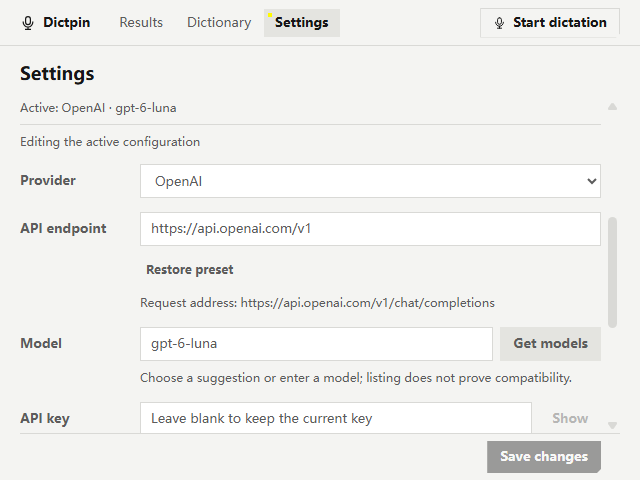
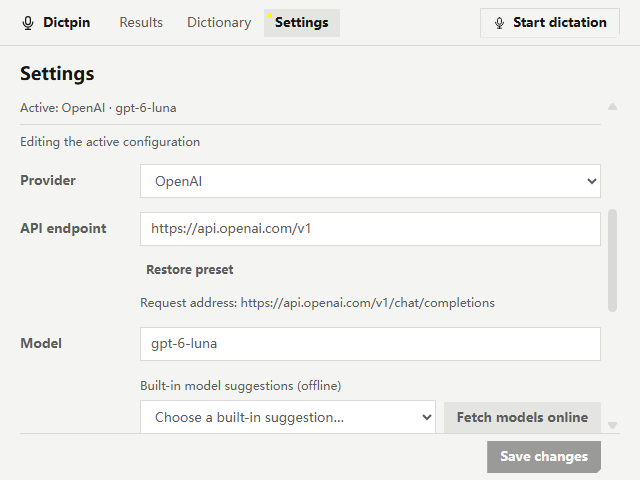
fix: clarify offline suggestions and model fetching feedback

diff --git a/app/renderer/provider-form.js b/app/renderer/provider-form.js
@@ -2,7 +2,7 @@
  'use strict';
  function create({bridge,onChange,onBusy}){
   const $=id=>document.getElementById(id),P=root.ProviderPresets,D=new root.ProviderDrafts.Drafts(P),en=bridge.uiLanguage==='en',t=(zh,english)=>en?english:zh;
-  let ready=false,operation=null,operationProfile=null,operationRevision=null,sequence=0,locked=false,secure=false;
+  let ready=false,operation=null,operationKind=null,operationProfile=null,operationRevision=null,sequence=0,locked=false,secure=false;
   const label=p=>P.providerLabel(p,en?'en':'zh-CN');
   function cancel(){if(operation){const id=operation,d=D.items.get(operationProfile);if(d?.draftRevision===operationRevision&&['running','loading'].includes(d.status.category))d.status={category:'changed'};operation=null;renderStatus();void bridge.cancelProviderDiagnostic({requestId:id}).catch(()=>{});onBusy(false);}}
   function changed(){cancel();renderStatus();renderInfo();onChange();}
@@ -11,7 +11,11 @@
   options($('model-region'),[['',t('请选择区域','Choose a region')],...P.REGIONS.map(p=>[p.id,en?p.en:p.label])]);
   function renderStatus(){
    const s=D.status(),messages={untested:t('未测试','Not tested'),changed:t('配置已更改，请重新测试','Changed — test again'),running:t('正在测试轻整理…','Testing cleanup…'),loading:t('正在获取模型…','Getting models…')};
-   $('test-message').textContent=messages[s.category]||s.displayMessage||'';
+   const missingKey=s.kind==='models'&&s.category==='credentials_missing';
+   $('model-key-error').hidden=!missingKey;$('model-key-error').textContent=missingKey?t('请先填写密钥','Please enter an API key first.'):'';
+   if(missingKey)$('model-key').setAttribute('aria-invalid','true');else $('model-key').removeAttribute('aria-invalid');
+   $('model-fetch-feedback').textContent=s.kind==='models'?(missingKey?t('尚未发送请求。','No request sent.'):(messages[s.category]||s.displayMessage||'')):'';
+   $('test-message').textContent=s.kind==='models'?'':messages[s.category]||s.displayMessage||'';
    $('test-message').dataset.outcome=s.outcome||s.category;
    const details=$('test-details');details.hidden=!s.requestId;
    $('test-detail-text').textContent=s.requestId?[t('模型：','Model: ')+(s.model||'—'),t('地址：','Address: ')+(s.endpointUrl||'—'),'HTTP: '+(s.httpStatus??'—'),t('类别：','Category: ')+s.category,t('耗时：','Elapsed: ')+Math.round(s.elapsedMs||0)+' ms',t('时间：','Time: ')+(s.testedAt?new Date(s.testedAt).toLocaleString(en?'en-GB':'zh-CN'):'—')].join('\n'):'';
@@ -33,6 +37,10 @@
    $('secure-key-note').textContent=secure?'':t('系统安全存储不可用；新密钥只能用于本次会话。','Secure storage is unavailable; new keys can only be session-only.');
    try{$('final-model-url').textContent=t('最终请求地址：','Request address: ')+root.ProviderEndpoint.resolveProviderEndpoint(p.baseUrl,'refiner',undefined,p.endpointMode).endpointUrl;}catch{$('final-model-url').textContent=t('填完整地址后显示最终请求地址。','Enter a complete address to preview the request URL.');}
    const help=P.KEY_URLS[p.presetId];$('provider-key-help').hidden=!help;$('provider-key-help').href=help||'#';
+   let endpoint;try{endpoint=root.ProviderEndpoint.resolveProviderEndpoint(p.baseUrl,'refiner',undefined,p.endpointMode);}catch{}
+   const access=root.ProviderDrafts.modelFetchAccess(d,endpoint);
+   $('model-source-hint').textContent=endpoint?.local?t('内置建议无需联网；在线获取将访问本地模型服务。','Built-in suggestions work without a connection; online fetch queries your local model service.'):access.reason==='credentials_missing'?t('内置建议无需密钥；在线获取请先填写密钥。','Built-in suggestions work without a key; enter a key before fetching online.'):t('可使用内置建议或手动填写；在线获取会查询当前厂商的模型列表。','Use built-in suggestions or type a model; online fetch queries this provider’s model list.');
+   $('fetch-models').textContent=operation&&operationKind==='models'?t('正在获取…','Fetching…'):t('在线获取模型','Fetch models online');$('fetch-models').setAttribute('aria-busy',String(!!operation&&operationKind==='models'));
    $('provider-key-help').textContent=t('获取 API 密钥','Get an API key');
    $('provider-summary').textContent=label(active)+' · '+(active.model||t('未配置','Not configured'));
   }
@@ -41,6 +49,7 @@
    if(p.presetId==='legacy'&&!$('model-provider').querySelector('option[value=legacy]')){const o=document.createElement('option');o.value='legacy';o.textContent=t('原有配置','Previous configuration');$('model-provider').append(o);}
    $('model-provider').value=p.presetId;$('model-region').value=p.region||'';$('model-workspace').value=p.workspaceId||'';$('model-url').value=p.baseUrl||'';$('model-name').value=p.model||'';$('model-key').value=d.key;$('model-key').type='password';$('reveal-model-key').textContent=t('查看','Show');$('remember-key').checked=d.persistKey;
    const list=$('model-suggestions');list.replaceChildren(...P.suggestions(p).map(id=>{const o=document.createElement('option');o.value=id;return o;}));renderInfo();renderStatus();
+   const builtins=P.suggestions(p);options($('builtin-models'),[['',builtins.length?t('选择内置建议…','Choose a built-in suggestion…'):t('暂无内置建议，可手动填写','No built-in suggestions; type a model')],...builtins.map(id=>[id,id])]);$('builtin-models').value='';$('builtin-models').disabled=locked||!builtins.length;
   }
   function accept(view){if(!view)return;const before=D.selected;D.accept(view);ready=true;if(!before||!D.isDirty())render();else renderInfo();}
   function select(){const provider=$('model-provider').value;let region=provider==='qwen'?$('model-region').value:'';if(provider==='qwen'&&!region){const saved=D.view.profiles.find(x=>x.presetId==='qwen');region=saved?.region||'';}if(provider==='legacy')D.selected='legacy';else D.select(provider,region);cancel();render();onChange();}
@@ -49,6 +58,7 @@
   $('model-workspace').addEventListener('input',()=>{const p=D.current().profile,workspaceId=$('model-workspace').value.trim();let defaults;try{defaults=P.createProfile('qwen',p.region,workspaceId);}catch{defaults={baseUrl:'',endpointMode:'base'};}D.update({workspaceId,...(!p.customized?{baseUrl:defaults.baseUrl,endpointMode:defaults.endpointMode}:{})});$('model-url').value=D.current().profile.baseUrl;changed();});
   $('model-url').addEventListener('input',()=>{const baseUrl=$('model-url').value.trim();D.update({baseUrl,endpointMode:/\/chat\/completions\/?$/.test(baseUrl)?'endpoint':'base',customized:true});changed();});
   $('model-name').addEventListener('input',()=>{D.update({model:$('model-name').value.trim()});changed();});
+  $('builtin-models').addEventListener('change',()=>{const value=$('builtin-models').value;if(!value)return;$('model-name').value=value;D.update({model:value});changed();});
   $('model-key').addEventListener('input',()=>{D.setKey($('model-key').value.trim());changed();});
   $('remember-key').addEventListener('change',()=>{D.setPersist($('remember-key').checked);changed();});
   $('remove-model-key').addEventListener('click',()=>{D.removeKey();changed();render();});
@@ -56,7 +66,7 @@
   $('restore-provider-preset').addEventListener('click',()=>{const d=D.current(),p=d.profile;if(p.presetId==='legacy')return;let defaults;try{defaults=P.createProfile(p.presetId,p.region,p.workspaceId);}catch{$('model-workspace').setAttribute('aria-invalid','true');$('model-workspace').focus();D.result(d.draftRevision,{category:'error',displayMessage:t('业务空间 ID 格式无效，请修改后重试。','Invalid workspace ID. Correct it and try again.')});renderStatus();return;}D.update({baseUrl:defaults.baseUrl,endpointMode:defaults.endpointMode,model:defaults.model,customized:false});changed();render();});
   function resultMessage(result,kind){
    const success=result.outcome==='success'||['success','test_success','chat_success','cleanup_success','models_success'].includes(result.category);
-   if(kind==='models'&&Array.isArray(result.models))return t('已获取 '+result.models.length+' 个模型；列表不代表轻整理兼容。','Received '+result.models.length+' models; listing is not proof of cleanup compatibility.')+(result.partial?t(' 已达到读取上限。',' The read limit was reached.'):'');
+   if(kind==='models'&&Array.isArray(result.models))return t('已获取 '+result.models.length+' 个模型，可在模型输入框选择；列表不代表轻整理兼容。','Received '+result.models.length+' models; choose one in the model input. Listing is not proof of cleanup compatibility.')+(result.partial?t(' 已达到读取上限。',' The read limit was reached.'):'');
    if(success)return t('本次轻整理样例通过；不代表所有内容的效果。','This cleanup sample passed; quality for other text is not established.');
    const messages={authentication:t('认证失败，请核对当前服务的密钥和权限。','Authentication failed. Check this service’s key and permissions.'),credentials_missing:t('请填写当前服务的密钥，或使用本地匿名服务。','Enter this service’s key, or use an anonymous local service.'),unsupported:t('当前地址暂未支持获取模型，可手动填写。','This address has no verified model-list adapter. Enter a model manually.'),cancelled:t('已取消；服务端仍可能处理或计费。','Cancelled; server processing or billing may still occur.'),timeout:t('请求超时，未自动重试；文字仍保留。','Timed out without retry; your text is preserved.'),rate_limit:t('额度或频率受限，请检查服务账户。','Quota or rate limit reached. Check your provider account.'),model_or_endpoint:t('模型或接口不存在，请核对模型与最终地址。','Model or endpoint not found. Check the model and request URL.')};
    if(result.category==='not_supported')return messages.unsupported;
@@ -64,15 +74,17 @@
    return messages[result.category]||t('检查未通过，请展开详情；配置草稿仍保留。','The check did not pass. Expand details; your draft is preserved.');
   }
   async function run(kind){
-   if(!ready||operation)return;const d=D.current(),id=d.profileId,revision=d.draftRevision,requestId='api-'+Date.now()+'-'+(++sequence);operation=requestId;operationProfile=id;operationRevision=revision;onBusy(true);D.result(revision,{category:kind==='models'?'loading':'running'},id);renderStatus();
+   if(!ready||operation)return;const d=D.current(),id=d.profileId,revision=d.draftRevision;
+   if(kind==='models'){let endpoint;try{endpoint=root.ProviderEndpoint.resolveProviderEndpoint(d.profile.baseUrl,'refiner',undefined,d.profile.endpointMode);}catch{}const access=root.ProviderDrafts.modelFetchAccess(d,endpoint);if(!access.allowed){D.result(revision,{kind,category:access.reason,displayMessage:access.reason==='credentials_missing'?t('请先填写密钥','Please enter an API key first.'):t('请先填写有效的 API 地址。','Enter a valid API address first.')},id);renderStatus();const field=$(access.reason==='credentials_missing'?'model-key':'model-url');field.focus();field.scrollIntoView({block:'nearest',behavior:'auto'});return;}}
+   const requestId='api-'+Date.now()+'-'+(++sequence);operation=requestId;operationKind=kind;operationProfile=id;operationRevision=revision;onBusy(true);D.result(revision,{kind,category:kind==='models'?'loading':'running'},id);renderStatus();renderInfo();
    try{const input={...D.input(),requestId};const result=await(kind==='models'?bridge.listProviderModels(input):bridge.checkTextService(input));if(operation!==requestId)return;if(D.result(revision,{...result,displayMessage:resultMessage(result,kind)},id)&&kind==='models'&&Array.isArray(result.models)){const ids=result.models.map(m=>typeof m==='string'?m:m.id).filter(Boolean);$('model-suggestions').replaceChildren(...[...new Set([...P.suggestions(d.profile),...ids])].map(value=>{const o=document.createElement('option');o.value=value;return o;}));}}
-   catch{if(operation===requestId)D.result(revision,{category:'error',displayMessage:t('检查未完成；请核对地址、模型和密钥，草稿仍保留。','Check incomplete. Verify the address, model and key; the draft is preserved.')},id);}
+   catch{if(operation===requestId)D.result(revision,{kind,category:'error',displayMessage:t('检查未完成；请核对地址、模型和密钥，草稿仍保留。','Check incomplete. Verify the address, model and key; the draft is preserved.')},id);}
    finally{if(operation===requestId){operation=null;onBusy(false);renderStatus();renderInfo();}}
   }
   $('test-model').addEventListener('click',()=>void run('test'));$('fetch-models').addEventListener('click',()=>void run('models'));
   $('provider-key-help').addEventListener('click',event=>{event.preventDefault();void bridge.openProviderHelp(D.current().profile.presetId).catch(()=>{});});
-  $('cancel-test').addEventListener('click',()=>{const d=D.current();cancel();D.result(d.draftRevision,{category:'cancelled',displayMessage:t('已取消；服务端仍可能计费。','Cancelled; server billing may still occur.')});renderStatus();});
-  return {accept,saved(view){cancel();D.saved(view);render();},reset(){cancel();D.reset();render();},isDirty:()=>ready&&D.isDirty(),patch:()=>ready?D.patch():null,cancel,sync(state){locked=state.locked;secure=state.secure;const unavailable=locked||state.busy||!!operation||!ready;$('test-model').disabled=unavailable;$('fetch-models').disabled=unavailable;$('cancel-test').hidden=!operation;renderInfo();},status:()=>D.status()};
+  $('cancel-test').addEventListener('click',()=>{const d=D.current(),kind=operationKind;cancel();D.result(d.draftRevision,{kind,category:'cancelled',displayMessage:t('已取消；服务端仍可能计费。','Cancelled; server billing may still occur.')});renderStatus();});
+  return {accept,saved(view){cancel();D.saved(view);render();},reset(){cancel();D.reset();render();},isDirty:()=>ready&&D.isDirty(),patch:()=>ready?D.patch():null,cancel,sync(state){locked=state.locked;secure=state.secure;const unavailable=locked||state.busy||!!operation||!ready;$('test-model').disabled=unavailable;$('fetch-models').disabled=unavailable;$('builtin-models').disabled=locked||!ready||!P.suggestions(D.current()?.profile).length;$('cancel-test').hidden=!operation;renderInfo();},status:()=>D.status()};
  }
  root.ProviderForm={create};
 })(typeof globalThis==='object'?globalThis:this);

diff --git a/app/renderer/dictation.html b/app/renderer/dictation.html
@@ -49,8 +49,8 @@
           <div id="provider-workspace-field" class="field" hidden><label for="model-workspace">业务空间 ID</label><input id="model-workspace" type="text" autocomplete="off" spellcheck="false" maxlength="128"></div>
           <div class="field"><label for="model-url">API 地址</label><div><input id="model-url" type="url" autocomplete="off" spellcheck="false" placeholder="https://example.com/v1" aria-describedby="model-url-error"><p id="model-url-error" class="field-error" hidden></p></div></div>
           <div class="provider-address-info"><span id="provider-customized" class="hint" hidden>已自定义</span><button id="restore-provider-preset" type="button" class="text-button">恢复预设</button><p id="final-model-url" class="hint"></p></div>
-          <div class="field"><label for="model-name">模型</label><div><div class="inline"><input id="model-name" type="text" list="model-suggestions" autocomplete="off" spellcheck="false" maxlength="160"><button id="fetch-models" class="secondary" type="button">获取模型</button></div><datalist id="model-suggestions"></datalist><p class="hint">可选择建议或手动填写；列表不代表兼容。</p></div></div>
-          <div class="field"><label for="model-key">API 密钥</label><div><div class="inline"><input id="model-key" type="password" autocomplete="new-password" spellcheck="false" placeholder="留空保留当前密钥"><button id="reveal-model-key" type="button" class="text-button" aria-controls="model-key">查看</button></div><div class="provider-key-actions"><button id="remove-model-key" type="button" class="text-button">移除密钥</button><a id="provider-key-help" href="#" hidden>获取 API 密钥</a></div><label class="check-row"><input id="remember-key" type="checkbox">用系统安全存储保存</label><p id="key-message" class="hint"></p><p id="secure-key-note" class="hint"></p></div></div>
+          <div class="field"><label for="model-name">模型</label><div><input id="model-name" type="text" list="model-suggestions" autocomplete="off" spellcheck="false" maxlength="160" aria-describedby="model-source-hint"><datalist id="model-suggestions"></datalist><div class="model-choice-row"><div><label for="builtin-models" class="hint">内置模型建议（无需联网）</label><select id="builtin-models"></select></div><button id="fetch-models" class="secondary" type="button" aria-describedby="model-source-hint model-fetch-feedback">在线获取模型</button></div><p id="model-source-hint" class="hint"></p><p id="model-fetch-feedback" class="hint" role="status" aria-live="polite"></p></div></div>
+          <div class="field"><label for="model-key">API 密钥</label><div><div class="inline"><input id="model-key" type="password" autocomplete="new-password" spellcheck="false" placeholder="留空保留当前密钥" aria-describedby="key-message model-key-error"><button id="reveal-model-key" type="button" class="text-button" aria-controls="model-key">查看</button></div><p id="model-key-error" class="field-error" role="alert" hidden></p><div class="provider-key-actions"><button id="remove-model-key" type="button" class="text-button">移除密钥</button><a id="provider-key-help" href="#" hidden>获取 API 密钥</a></div><label class="check-row"><input id="remember-key" type="checkbox">用系统安全存储保存</label><p id="key-message" class="hint"></p><p id="secure-key-note" class="hint"></p></div></div>
           <div class="test-row"><button id="test-model" class="secondary" type="button">测试轻整理</button><button id="cancel-test" type="button" class="text-button" hidden>取消检查</button><span class="hint">发送虚构样例，可能计费。</span></div><p id="test-message" role="status" class="hint"></p>
           <details id="test-details" hidden><summary>检查详情</summary><p id="test-detail-text" class="hint"></p></details>
         </div></details>

diff --git a/app/renderer/dictation.css b/app/renderer/dictation.css
@@ -80,5 +80,6 @@ textarea{font:15px/1.8 var(--ef-font-text);color:var(--ef-ink);border:1px solid 
 .result-actions{flex-wrap:wrap;justify-content:flex-end}.delivery-message{padding:6px 0;margin:0 0 8px;line-height:1.6;border-bottom:1px solid var(--ef-rule)}
 .task-status[data-segmented=true]{flex-wrap:wrap}.task-status[data-segmented=true]>p{display:block;margin:0;font-size:12px}
 .provider-address-info{margin:-6px 0 14px 120px}.provider-address-info button{font-size:12px;padding:2px 6px}.provider-address-info p{overflow-wrap:anywhere;margin-top:4px}.provider-key-actions{display:flex;align-items:center;justify-content:space-between;gap:8px;margin-top:4px}.provider-key-actions button,.provider-key-actions a{font-size:12px}.provider-key-actions button{padding:3px 0}#provider-active{font-size:12px;border-bottom:1px solid var(--ef-rule);padding-bottom:6px}#provider-pending{margin-bottom:12px}#test-details{margin:8px 0 0 120px}#test-detail-text{white-space:pre-wrap;overflow-wrap:anywhere}#test-message[data-outcome=changed]{color:var(--ef-ink-2)}
+.model-choice-row{display:flex;flex-wrap:wrap;align-items:flex-end;gap:8px;margin-top:8px}.model-choice-row>div{flex:1 1 180px;min-width:0}.model-choice-row label{display:block;margin:0 0 4px}.model-choice-row button{flex:none;max-width:100%}#model-fetch-feedback:empty{display:none}#model-fetch-feedback{margin-top:6px}#model-key[aria-invalid=true]{border-color:var(--ef-danger)}
 @media(max-width:420px){.provider-address-info,#test-details{margin-left:0}.provider-key-actions{flex-wrap:wrap}#fetch-models{padding-inline:7px;font-size:11px}}
 @media(max-width:390px){.result-actions{gap:5px}.result-actions button{font-size:11px;padding-inline:8px;min-width:58px}}

diff --git a/app/renderer/dictation-i18n.js b/app/renderer/dictation-i18n.js
@@ -8,6 +8,7 @@
  const protectedAttributes='#original-text,#correction-list,#provider-summary,.word-title,.word-aliases,[data-user-text]';
  const chrome='title,button,label,summary,h1,h2,h3,.app-name,.skip,.hint,.empty-copy,.dictionary-intro,.dictionary-help,.privacy-note,.count-unit,#notice,#session-status,#task-status-title,#task-status-detail,#result-message,#recent-time,#shortcut-prefix,#shortcut-suffix,#toast-text,#word-undo-text,#word-error,#confirm-description,#bar-status,#bar-feedback,#voice-pill';
  const english=Object.freeze({
+  '内置模型建议（无需联网）':'Built-in model suggestions (offline)','在线获取模型':'Fetch models online',
   '模型厂商':'Provider','服务区域':'Region','业务空间 ID':'Workspace ID','恢复预设':'Restore preset','已自定义':'Customized','获取模型':'Get models','可选择建议或手动填写；列表不代表兼容。':'Choose a suggestion or enter a model; listing does not prove compatibility.','查看':'Show','隐藏':'Hide','移除密钥':'Remove key','撤销移除':'Undo removal','获取 API 密钥':'Get an API key','测试轻整理':'Test cleanup','取消检查':'Cancel check','发送虚构样例，可能计费。':'Sends a fictional sample; charges may apply.','检查详情':'Check details',
   '本次使用本地文字，模型连接待配置。':'Using local text for this task; configure the model connection when ready.',
   '已取消；已完成文字保留，未处理片段仅在内存保留30秒。':'Cancelled. Completed text is kept; unfinished audio stays in memory for 30 seconds.',

diff --git a/app/renderer/provider-drafts.js b/app/renderer/provider-drafts.js
@@ -3,6 +3,7 @@
  const clone=value=>JSON.parse(JSON.stringify(value));
  const fields=['id','presetId','region','workspaceId','baseUrl','endpointMode','model','customized','revision'];
  const metadata=p=>Object.fromEntries(fields.filter(k=>p[k]!==undefined).map(k=>[k,p[k]]));
+ function modelFetchAccess(draft,endpoint){if(!endpoint||typeof endpoint.local!=='boolean')return {allowed:false,reason:'configuration'};const hasKey=draft?.keyAction==='replace'?typeof draft.key==='string'&&!!draft.key.trim():draft?.keyAction==='retain'&&draft.keyStatus?.hasKey===true;return endpoint.local||hasKey?{allowed:true,reason:null}:{allowed:false,reason:'credentials_missing'};}
  class Drafts{
   constructor(presets){this.presets=presets;this.view=null;this.items=new Map();this.selected=null;this.conflicted=false;}
   accept(view){if(!view)return;this.latest=clone(view);if(!this.view){this.saved(view);return;}if(view.revision!==this.view.revision){if(this.isDirty()){this.conflicted=true;return;}this.saved(view);}}
@@ -22,5 +23,5 @@
   status(){return this.current()?.status||{category:'untested'};}
   result(revision,result,id=this.selected){const d=this.items.get(id);if(id!==this.selected||!d||d.draftRevision!==revision)return false;d.status=clone(result);return true;}
  }
- return {Drafts};
+ return {Drafts,modelFetchAccess};
 });

diff --git a/CHANGELOG.md b/CHANGELOG.md
@@ -11,11 +11,12 @@ This is an application-source development candidate. No installer release, tag o
 - Added provider presets for Qwen, DeepSeek, OpenAI and SiliconFlow, plus Local/Custom, with separate remembered provider/region configurations and one active service. Explicit Save commits changed drafts and activation atomically; switching presets sends no request.
 - Added draft-bound cleanup sample tests using the same request/response rules and 12-second deadline as actual cleanup. Configuration edits invalidate old test results and superseded replies cannot update the new draft.
 - Added deliberate model discovery with provider-specific, same-origin adapters, a 10-second deadline, 500-model/2 MiB caps, and suggestions/manual input retained on failure. A list or one sample does not establish general quality.
+- Separated offline built-in model suggestions from **Fetch models online**. Missing remote credentials now show **请先填写密钥**, focus the key field and send no request. Online fetching has an explicit busy label and nearby result/cancellation feedback; anonymous local services remain supported.
 - Added explicit key removal/undo and session/saved/unavailable states. Keys remain in the main process, scoped to their profile/endpoint; requested encryption or save failure preserves previous data. Legacy configurations remain unchanged on open; unsupported newer data opens read-only.
 - Optional cleanup with unavailable configuration/credentials no longer prevents local dictation. No automatic paid retry, provider switch, physical microphone test or deployed running-version replacement is introduced.
 - Updated API, privacy, installation and all six README explanations. Preset documentation was checked on 2026-10-28; real account access, paid-service quality and billing remain manual acceptance. This candidate is not an installer release or GitHub publication.
 
-Verification for this candidate: **133 local tests** passed, including the existing 74 regression tests. **14 Electron flow checks in each of Chinese and English** passed with natural exit 0, using fictional profiles, in-memory service responses, simulated system adapters and intercepted capture commands. No physical microphone, live API, real key, system clipboard or paid request was used. Invalid-workspace recovery, conflicting settings restoration and switching away from a pending diagnostic were reproduced before their fixes and then passed. Test fixtures and raw evidence remain outside the public source tree.
+Verification for this candidate: **139 local tests** passed, including the existing 74 regression tests. **18 Electron flow checks in each of Chinese and English** passed with natural exit 0, using fictional profiles, in-memory service responses, simulated system adapters and intercepted capture commands. No physical microphone, live API, real key, system clipboard or paid request was used. Checks include missing-key focus/feedback, offline selection, fetch/cancel states, and feedback visibility at 360 × 300 in both themes. Invalid-workspace recovery, conflicting settings restoration and switching away from a pending diagnostic were reproduced before their fixes and then passed. Test fixtures and raw evidence remain outside the public source tree.
 
 ### 2026-10-24
 

diff --git a/docs/API_CONFIGURATION.md b/docs/API_CONFIGURATION.md
@@ -44,7 +44,11 @@ Use the provider's official key guidance or console: [Qwen key guide](https://he
 
 The interface shows untested, checking, sample passed, failed and changed states. Address, region, model, key or request-parameter edits invalidate the old result; cancelled/superseded replies cannot update the new draft. Expandable safe details identify the tested model, final address, category, HTTP status, elapsed time and test time. Raw error bodies and authorization are not shown. A green verification state is not persisted across restarts.
 
-**获取模型** (Get models) is a separate explicit metadata request: at most **10 seconds**, **500 models** and **2 MiB** of response data in total. It does not download models or prove cleanup compatibility. Suggestions and manual entry remain available on failure or truncation.
+**内置模型建议（无需联网）** (Built-in model suggestions, offline) is a separate menu of editable presets. Choosing one fills the model field without a key or any service request; manual entry remains available.
+
+**在线获取模型** (Fetch models online) deliberately queries the current service. For a remote service without a usable key, clicking it immediately shows **请先填写密钥** (Please enter an API key first), highlights and focuses the key field, and sends no request. An anonymous loopback service does not require a key. While a request is running, the button shows **正在获取…** (Fetching…); nearby feedback reports cancellation, failure or the number of models received.
+
+This metadata request is limited to **10 seconds**, **500 models** and **2 MiB** of response data in total. It does not download models or prove cleanup compatibility. Built-in suggestions and manual entry remain available on failure or truncation.
 
 Listing uses provider-specific same-origin routes. Qwen uses `/api/v1/models` with bounded pagination, not `compatible-mode/v1/models`. Addresses without a verified same-origin adapter, including new Singapore/Hong Kong workspace hosts in this version, retain suggestions/manual entry. This is a limitation of Dictpin's adapter, not a claim that the service cannot support listing. Keys are not forwarded to another origin. See [Qwen model-list documentation](https://help.aliyun.com/zh/model-studio/list-models).
 

diff --git a/docs/SCREENSHOTS.md b/docs/SCREENSHOTS.md
@@ -10,9 +10,9 @@ The real local dictionary changes the seeded misspellings `dict pin` and `sense 
 
 ## API configuration
 
-![English API configuration with an empty key](images/settings.png)
+![English API configuration with separate offline suggestions and online fetching](images/settings.png)
 
-The provider selector, OpenAI address and `gpt-6-luna` are configuration examples. The key field is empty. The capture fixture exercises sample tests with in-memory responses only; no live connection test or paid request was made. No connected state or service latency result is implied. Read [API configuration](API_CONFIGURATION.md) for the correct address/model for your account.
+The provider selector, OpenAI address and `gpt-6-luna` are configuration examples. The offline suggestion menu and explicit online-fetch button have separate labels. The settings pane scrolls to the key and test controls below; no real key is shown. The capture fixture exercises sample tests with in-memory responses only; no live connection test or paid request was made. No connected state or service latency result is implied. Read [API configuration](API_CONFIGURATION.md) for the correct address/model for your account.
 
 ## Separate concept artwork
 
